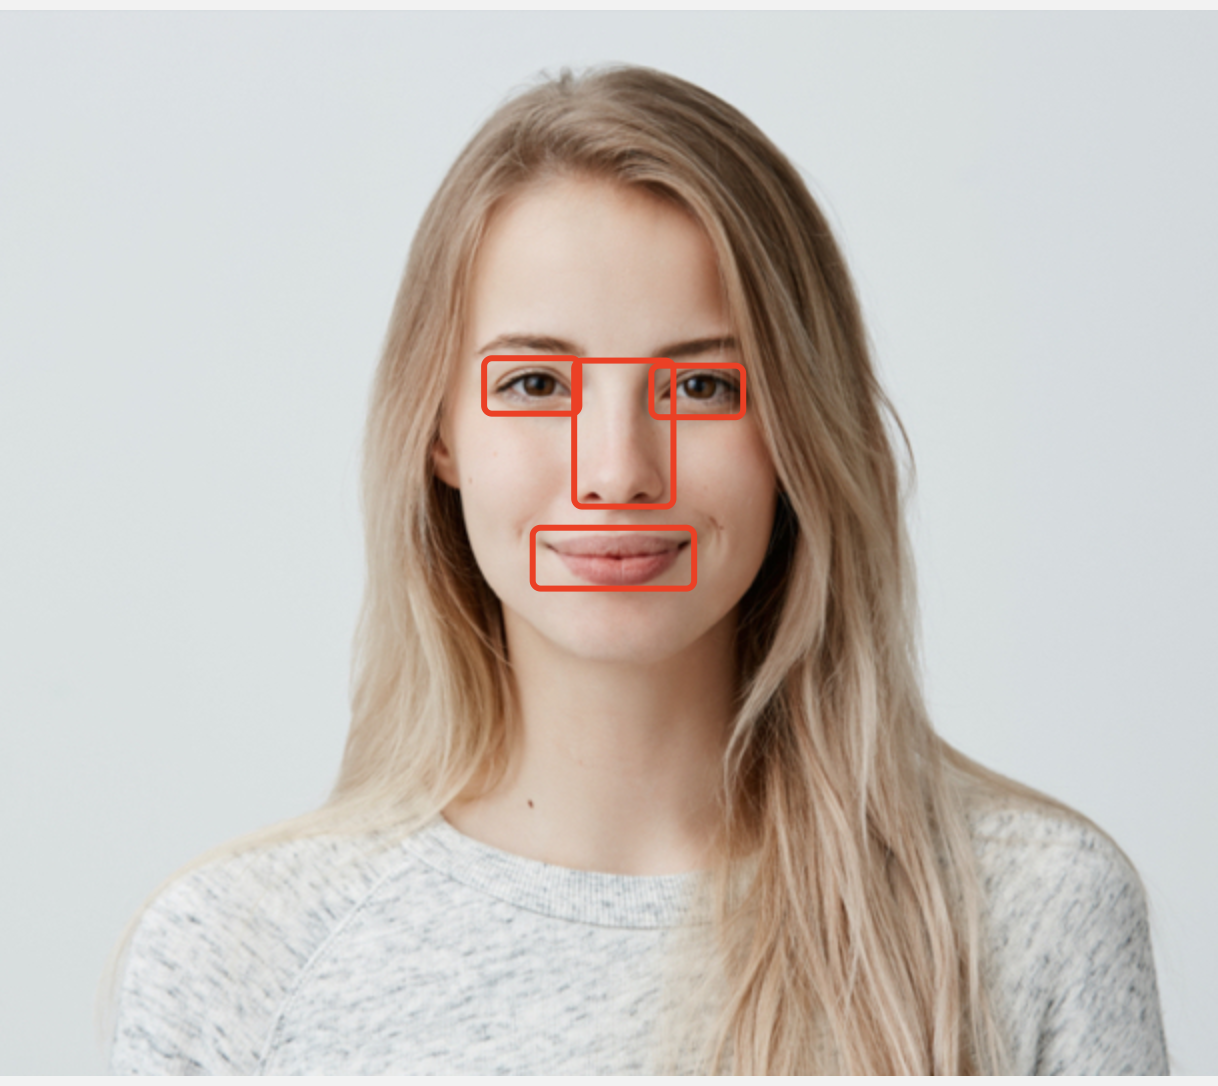
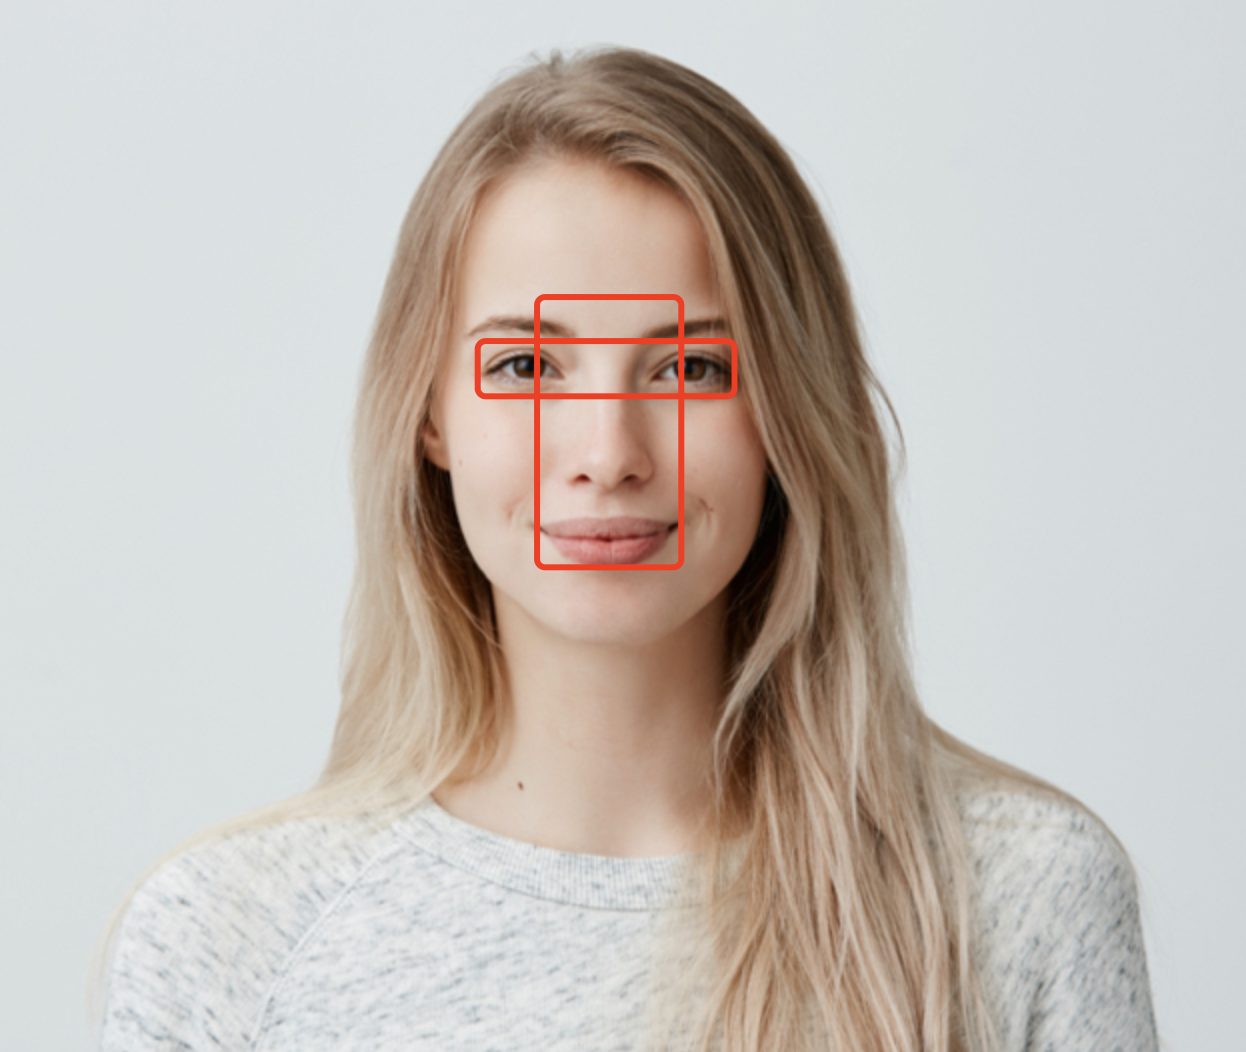
update areas

diff --git a/main.py b/main.py
@@ -5,8 +5,9 @@ def do_face_blur(input_path, output_path):
     """
     1. read image from the input_path
     2. use mediapipe to detect face
-    3. use cv2 to blur two eyes, nose, mouth with four Rectangles. See areas.png. As long as eyes, nose, mouth are blurred, that's OK.
-    The purpose is to de-identify people's photo.
+    3. use cv2 to heavily blur two Rectangle areas, which covers eyes, nose and mouth. See areas.png.
+    As long as eyes, nose, mouth are blurred, that's OK.
+    The purpose is to de-identify people.
     4. write the result to output_path
 
     """
